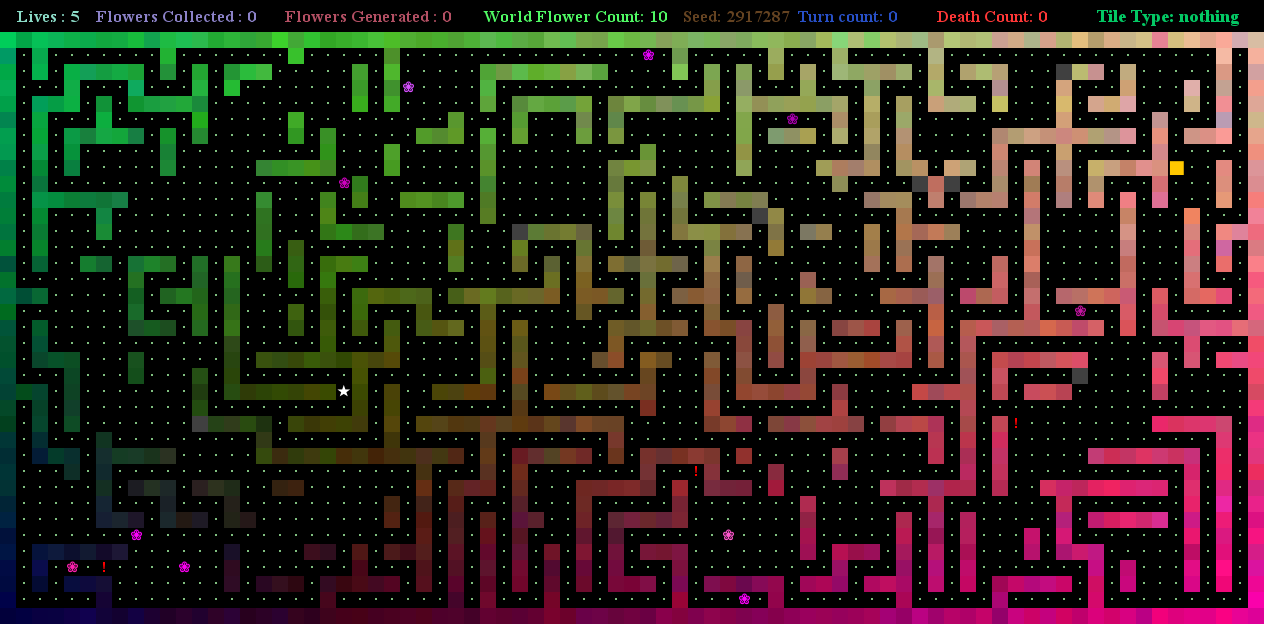
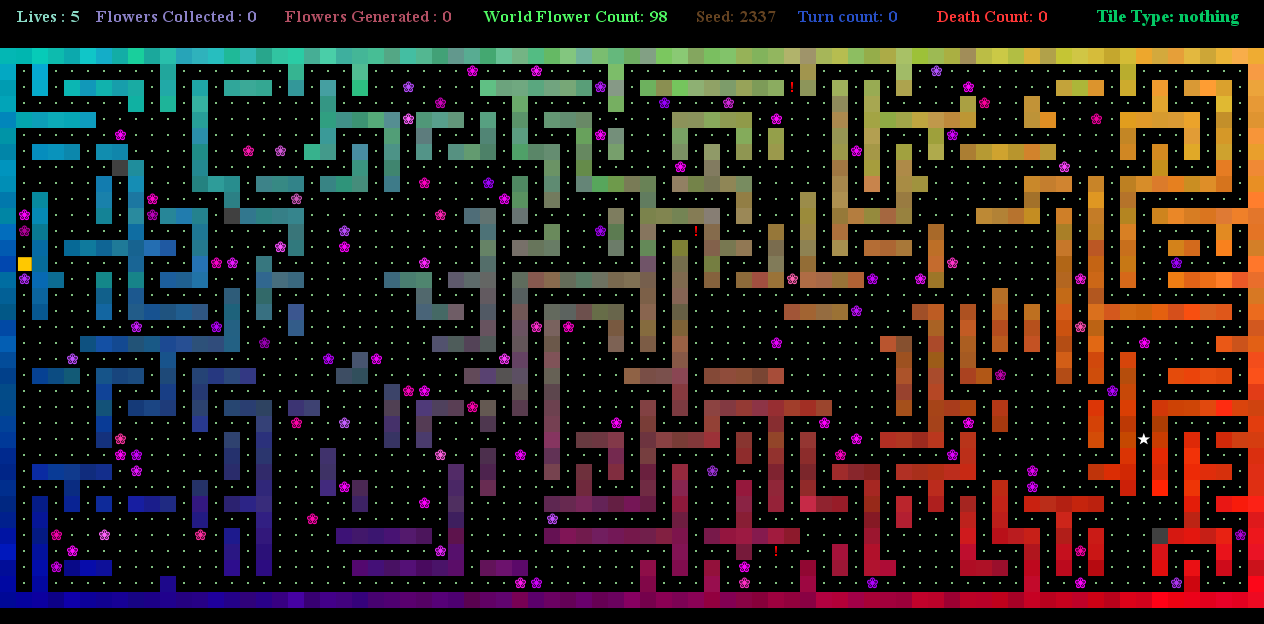
finalize slideshow images

diff --git a/projects.html b/projects.html
@@ -77,15 +77,6 @@
       color: white;
     }
 
-    /* Number text (1/3 etc) */
-    .slidesNumbertext {
-      color: #f2f2f2;
-      font-size: 14px;
-      padding: 8px 12px;
-      position: absolute;
-      top: 0;
-    }
-
     /* The dots/bullets/indicators */
     .slidesDot {
       cursor: pointer;
@@ -95,11 +86,11 @@
       background-color: #9dabbd;
       border-radius: 50%;
       display: inline-block;
-      transition: background-color 0.6s ease;
+      transition: background-color 0.3s ease;
     }
 
     .slidesDot:hover {
-      background-color: #1f4980;
+      background-color: #476894;
     }
 
     .slidesDot.active {
@@ -194,38 +185,49 @@
             <h2 class="add-top-margin">World Game Generation</h2>
             <hr>
             <p class="text">
-              Our final CS 61B project was to create a game; the core constraints were that the tile-based environment must be randomly generated, there must be some kind of avatar that is user controlled, and there must be a way to "win" or complete the game. We took these core concepts and built a remarkably intricate game that we and friends genuinely enjoyed playing, beyond just for the class. The gameplay was as follows:
+              Our final CS 61B project was to create a game; the core constraints were that the tile-based environment must be (pseduo-)randomly generated, and for extra credit, there must be some kind of avatar that is user controlled, and there must be a way to "win" or complete the game. We took these concepts and built a remarkably intricate game that we and friends genuinely enjoyed playing, beyond just for the class. The gameplay was as follows (taken directly from our "folklore/background" section of the project:
             </p>
             <p class="text">
-              Your avatar is a star, and you must explore each world (maze in a grid of tiles). Once you find the yellow door, it'll unlock, leading you to darker world. Several enemies intelligently chase you (dfs short-path finding, accounting for walls) as you move around the map; don't get caught! you have 3 lives to begin with, but don't worry; collect purple flowers for a chance to gain a life. Seems the flowers are on your side; the less health you have, the more likely they are to help you. As you traverse the map, the tiles you've already crossed become progressively darker, until after 3 passes, they become lava! Touching those will drain your life, so be sure to think ahead. </p>
+              The goal of the game is as follows: you control an avatar, the white star. It's tiny, but persistent. By using the WASD keys to move around, you can avoid the menacing exclamation marks (!) following you around. You may be steadfast in your willingness to get to the end point, but they're equally motivated to make sure that never happens. You ultimately want to get to the yellow locked door to win the game and attain absolute glory. Be careful, there are some specific rules to follow. Once you traverse a tile, it becomes more red, and eventually, it'll become a deadly lava tile, indicated by the presence of an emoji! If you go over a lava tile, you lose a life (you have 3 total to begin with). If the (!) hits you, you lose a life. Try and collect flowers! They're on your side; the less health you have, the more likely they are to help you and grant a life. Each turn, you also have a chance to generate new flowers! Don't worry about running out 😄
+            </p>
             <p class="text">
               As a user, you can toggle the wall color scheme, see an interesting bit of background for the game, toggle a super-hard mode, and customize your gameplay. As a programmer, you can do so much more; alter the room-generation algorithm to make easer/harder maps, modify the enemy behavior, change the spawn frequency and helpfulness of flowers; the list is endless. Take a look below for an idea of how the game looks!
             </p>
-            <p> images: main screen, starting point, opaque levels 1 and 2, folklore, video: locked/unlocked doors, enemies chasing, music, etc. </p>
             <div class="slideshow-container">
             <!-- Full-width images with number and caption text -->
               <div class="mySlides fade">
-                <img src="img/book.png" style="width:100%">
-                <div class="slidesNumbertext">1 / 3</div>
+                <img src="img/cs61b_home.png" style="width:100%">
               </div>
               <div class="caption-container">
-                <p class="slidesCaption">cap 1</p>
+                <p class="slidesCaption">The game's home page</p>
               </div>
 
               <div class="mySlides fade">
-                <img src="img/cs61b_startsample.png" style="width:100%">
-                <div class="slidesNumbertext">2 / 3</div>
+                <img src="img/cs61b_startsample2.png" style="width:100%">
               </div>
               <div class="caption-container">
-                <p class="slidesCaption">cap 2</p>
+                <p class="slidesCaption">A colorful starting world.</p>
               </div>
 
               <div class="mySlides fade">
-                <img src="img/close.png" style="width:100%">
-                <div class="slidesNumbertext">3 / 3</div>
+                <img src="img/cs61b_startsample_nocolor.png" style="width:100%">
               </div>
               <div class="caption-container">
-                <p class="slidesCaption">cap 3</p>
+                <p class="slidesCaption">A not-so-colorful starting world.</p>
+              </div>
+
+              <div class="mySlides fade">
+                <img src="img/cs61b_lavatrail.png" style="width:100%">
+              </div>
+              <div class="caption-container">
+                <p class="slidesCaption">Creating a trail of lava tiles behind me (not so smart!)</p>
+              </div>
+
+              <div class="mySlides fade">
+                <img src="img/cs61b_unlockeddoor1.png" style="width:100%">
+              </div>
+              <div class="caption-container">
+                <p class="slidesCaption">Unlocking a door makes the world darker, with a torchlight-effect around the avatar.</p>
               </div>
 
               <!-- Next and previous buttons -->
